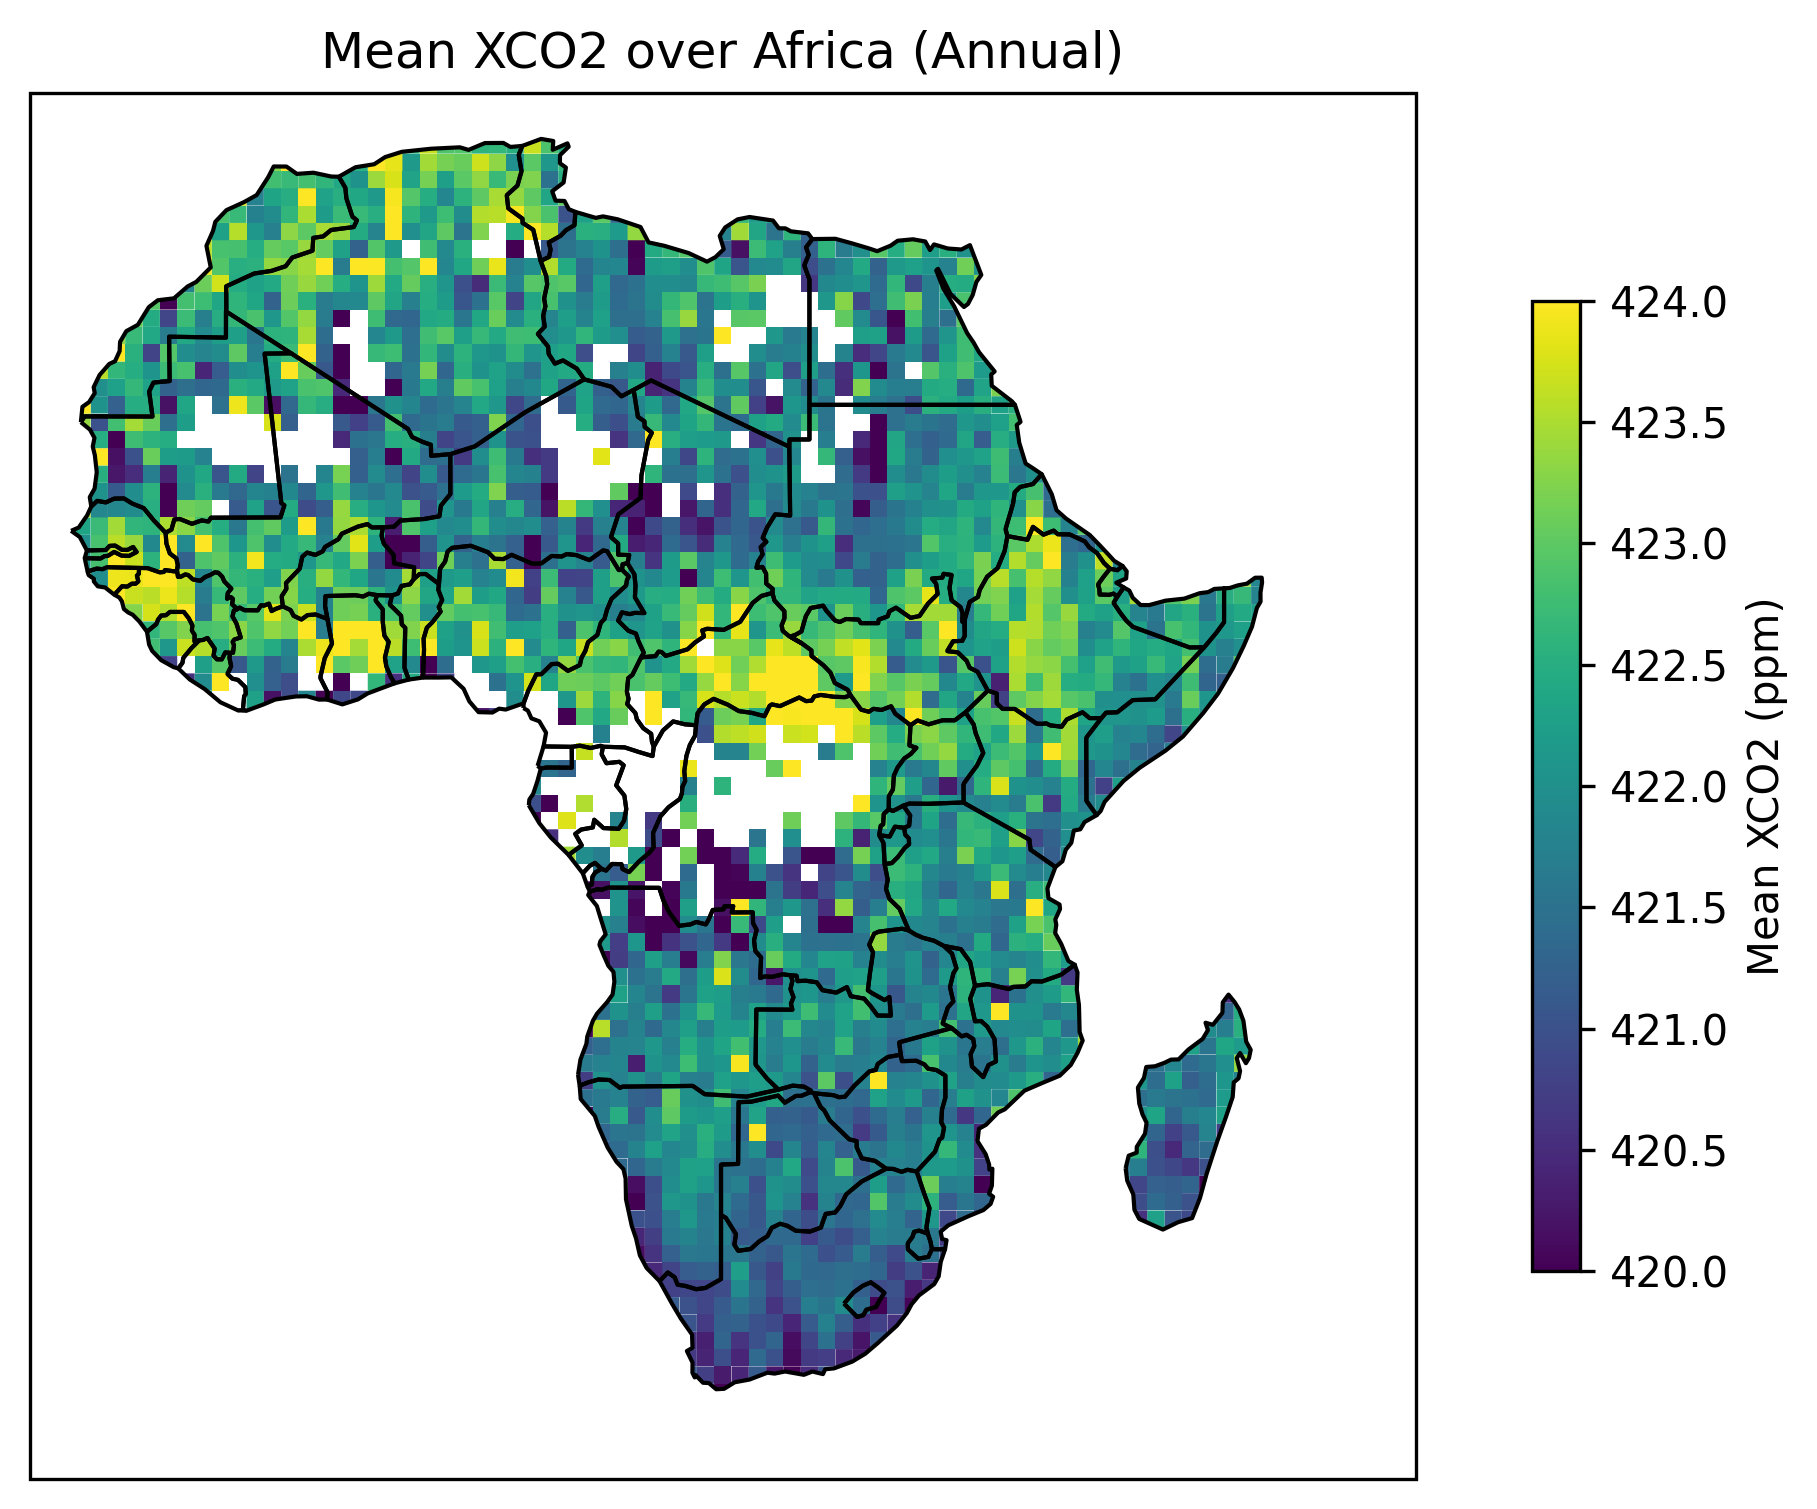
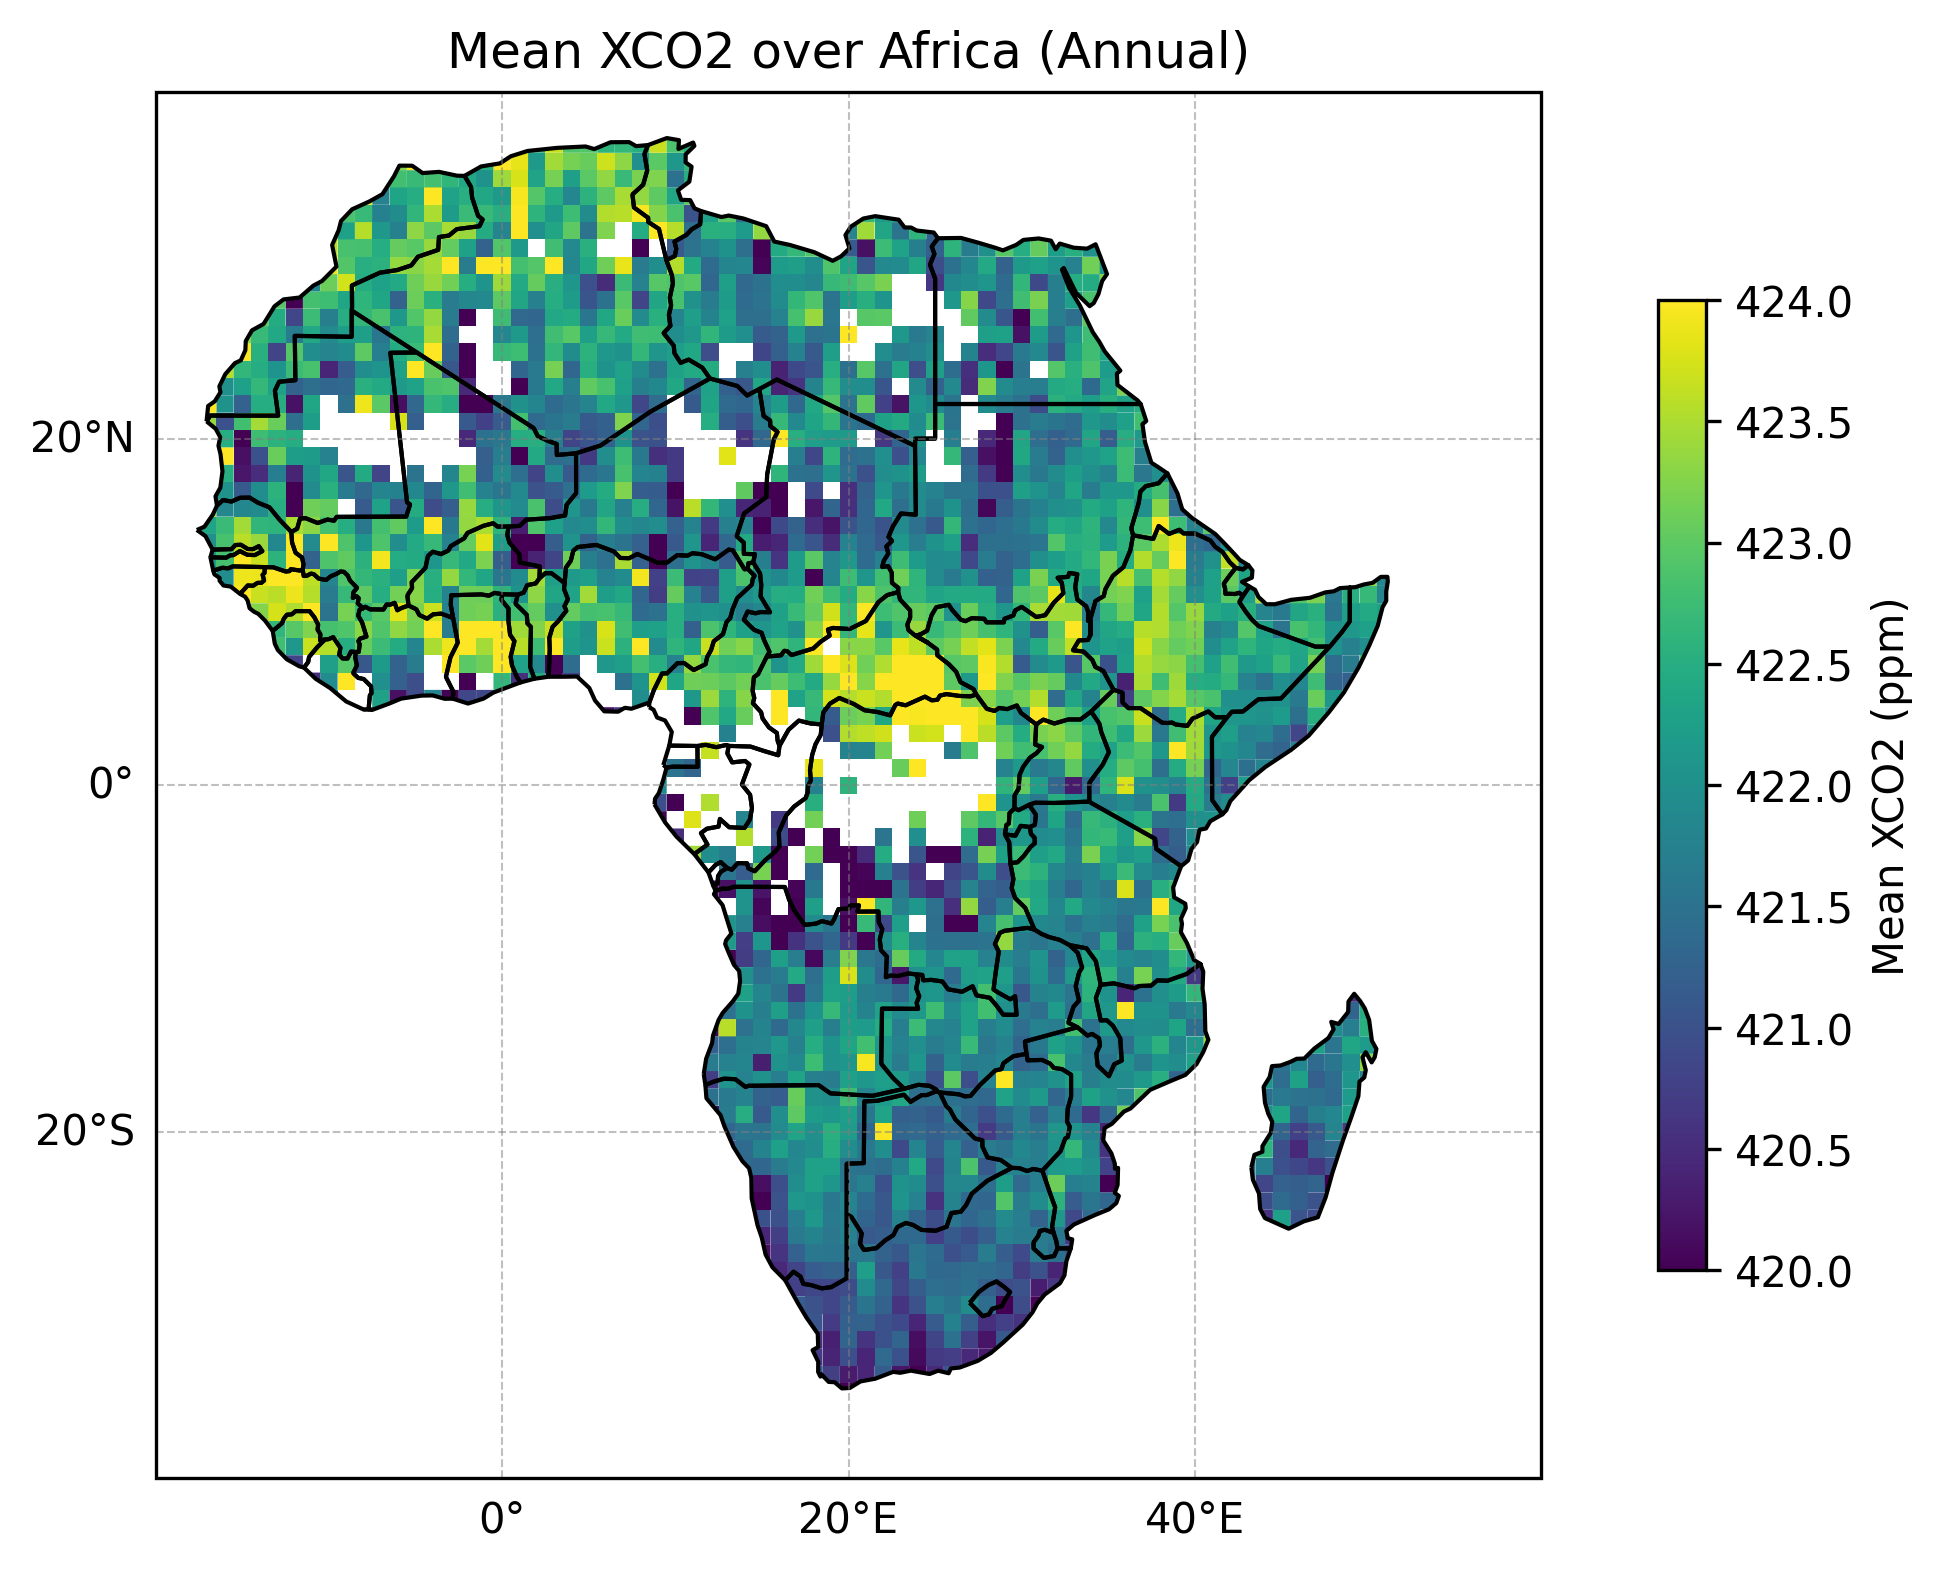
lat lon annual map

diff --git a/scripts/visualization.py b/scripts/visualization.py
@@ -3,6 +3,7 @@
 import matplotlib.pyplot as plt
 import cartopy.crs as ccrs
 import matplotlib as mpl
+import matplotlib.ticker as mticker
 from shapely.geometry import Point
 import geopandas as gpd
 
@@ -12,16 +13,40 @@ def _apply_map_style(ax, title):
     ax.set_extent([-20, 60, -40, 40], crs=ccrs.PlateCarree())
 
 def plot_annual_mean_map(gdf_clipped, africa_shape):
+    from cartopy.mpl.gridliner import LONGITUDE_FORMATTER, LATITUDE_FORMATTER
     """Plots the single annual mean map using the box polygons."""
     fig, ax = plt.subplots(figsize=(10, 6), subplot_kw={"projection": ccrs.PlateCarree()})
     
+    # Plot the data
     gdf_clipped.plot(
         ax=ax, column="xco2", cmap="viridis",
         vmin=420, vmax=424, legend=True,
         legend_kwds={'label': "Mean XCO2 (ppm)", 'orientation': "vertical", 'shrink': 0.7}
     )
     africa_shape.boundary.plot(ax=ax, edgecolor="black", linewidth=1)
+    
     _apply_map_style(ax, "Mean XCO2 over Africa (Annual)")
+
+    # ✅ Add gridlines first
+    gl = ax.gridlines(
+        draw_labels=True, 
+        linewidth=0.5, color='gray', alpha=0.5, linestyle='--'
+    )
+    gl.top_labels = False
+    gl.right_labels = False
+
+    # ✅ Format longitude and latitude
+    gl.xformatter = LONGITUDE_FORMATTER
+    gl.yformatter = LATITUDE_FORMATTER
+
+    # ✅ Set spacing
+    gl.xlocator = mticker.FixedLocator([-20, 0, 20, 40, 60])
+    gl.ylocator = mticker.FixedLocator([-40, -20, 0, 20, 40])
+
+    # Optional: control label font size
+    gl.xlabel_style = {'size': 10}
+    gl.ylabel_style = {'size': 10}
+
     plt.savefig("./results/annual_co2_map.png", dpi=300, bbox_inches='tight')
     plt.show()
 
